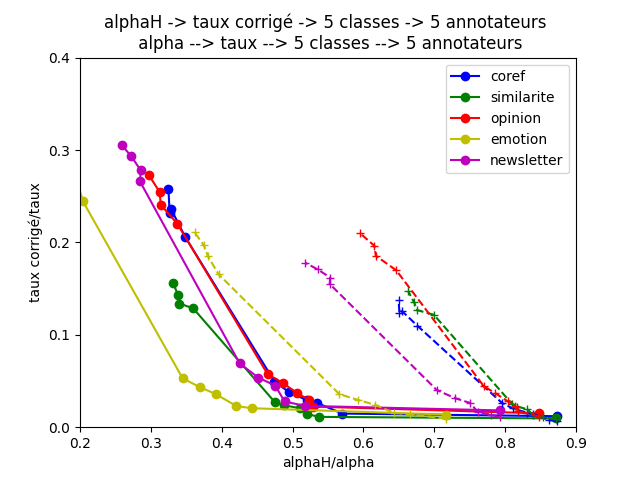
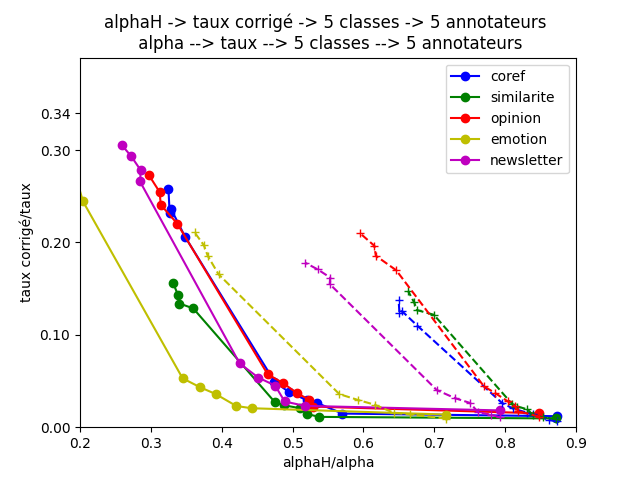
Hellinger et variation totale avec kappa > 0.5

diff --git a/simulation_sur_distri_reelles_2021_05.cpp b/simulation_sur_distri_reelles_2021_05.cpp
@@ -488,8 +488,8 @@ void affiche_res_series(int nbval,float tauxErparAnnot[],float moymtauxErRef[],f
 void write_res_series(string corpus, int nbval, float moykappa[], float moyalpha[], float moymtauxErRef[], float distancemoytaux_distri_hasard[]) {
   string nomfich1 = "./res/kappa_" + corpus + ".csv";
   string nomfich2 = "./res/alpha_" + corpus + ".csv";
-  string nomfich3 = "./res/alphaH_" + corpus + ".csv";
-  string nomfich4 = "./res/kappaH_" + corpus + ".csv";
+  string nomfich3 = "./res/alphatotvar_" + corpus + ".csv";
+  string nomfich4 = "./res/kappatotvar_" + corpus + ".csv";
   ofstream file1(nomfich1.c_str());
   ofstream file2(nomfich2.c_str());
   ofstream file3(nomfich3.c_str());
@@ -497,8 +497,8 @@ void write_res_series(string corpus, int nbval, float moykappa[], float moyalpha
   if (file1 && file2 && file3 && file4) {
     file1 << "kappa,taux" << endl;
     file2 << "alpha,taux" << endl;
-    file3 << "alphaH,taux" << endl;
-    file4 << "kappaH,taux" << endl;
+    file3 << "alphatotvar,taux" << endl;
+    file4 << "kappatotvar,taux" << endl;
     for (int nb = 0; nb < nbval; nb++) {
       file1 << moykappa[nb] << "," << moymtauxErRef[nb]  << endl;
       file2 << moyalpha[nb] << "," << moymtauxErRef[nb] << endl;

diff --git a/outils_distances.cpp b/outils_distances.cpp
@@ -272,6 +272,7 @@ float distance_uniforme(float Tdist2[MAXCL][MAXCL],int nbC) {
             S+=abs(Tdist2[l][c]-moy);
     return S;
 }
+
 float cosinus_uniforme(float Tdist2[MAXCL][MAXCL],int nbC) {
     int nb=(nbC*(nbC-1))/2;
     float moy=1.0/(1.0*nb);
@@ -291,6 +292,7 @@ float cosinus_uniforme(float Tdist2[MAXCL][MAXCL],int nbC) {
 int cmpfunct(const void * a,const void * b) {
   return (*(int *) a-*(int *)b);
 }
+
 void nb_desaccords_par_item(int TA[MAXIT][MAXA],int nbA,int nbIt,int Vreel[]){
     /* //"la table..."
     //cout << "annotations\n";
@@ -330,7 +332,6 @@ void vect_desaccords_annotation_aleatoire(int nbA,int nbIt,int nbC,int Vrand[]) 
     }
     else cout << "desaccords aleatoires : calcul ou simulation à faire\n";
 }
-
 
 
 //-----DISTANCES ENTRE DISTRIBUTIONS-----
@@ -633,7 +634,7 @@ float distance_taux_distri_hasard(int T[MAXIT][MAXA], int nbA, int nbIt, int nbC
         else
           (Treel[ind])++;
     }
-    return H_vect_entier(Tcomb, Treel, 7);
+    return totvar_vect_entier(Tcomb, Treel, 7);
   }
   else {
     cout << "pas de calcul prévu pour distance_taux_distri_hasard\n ";
